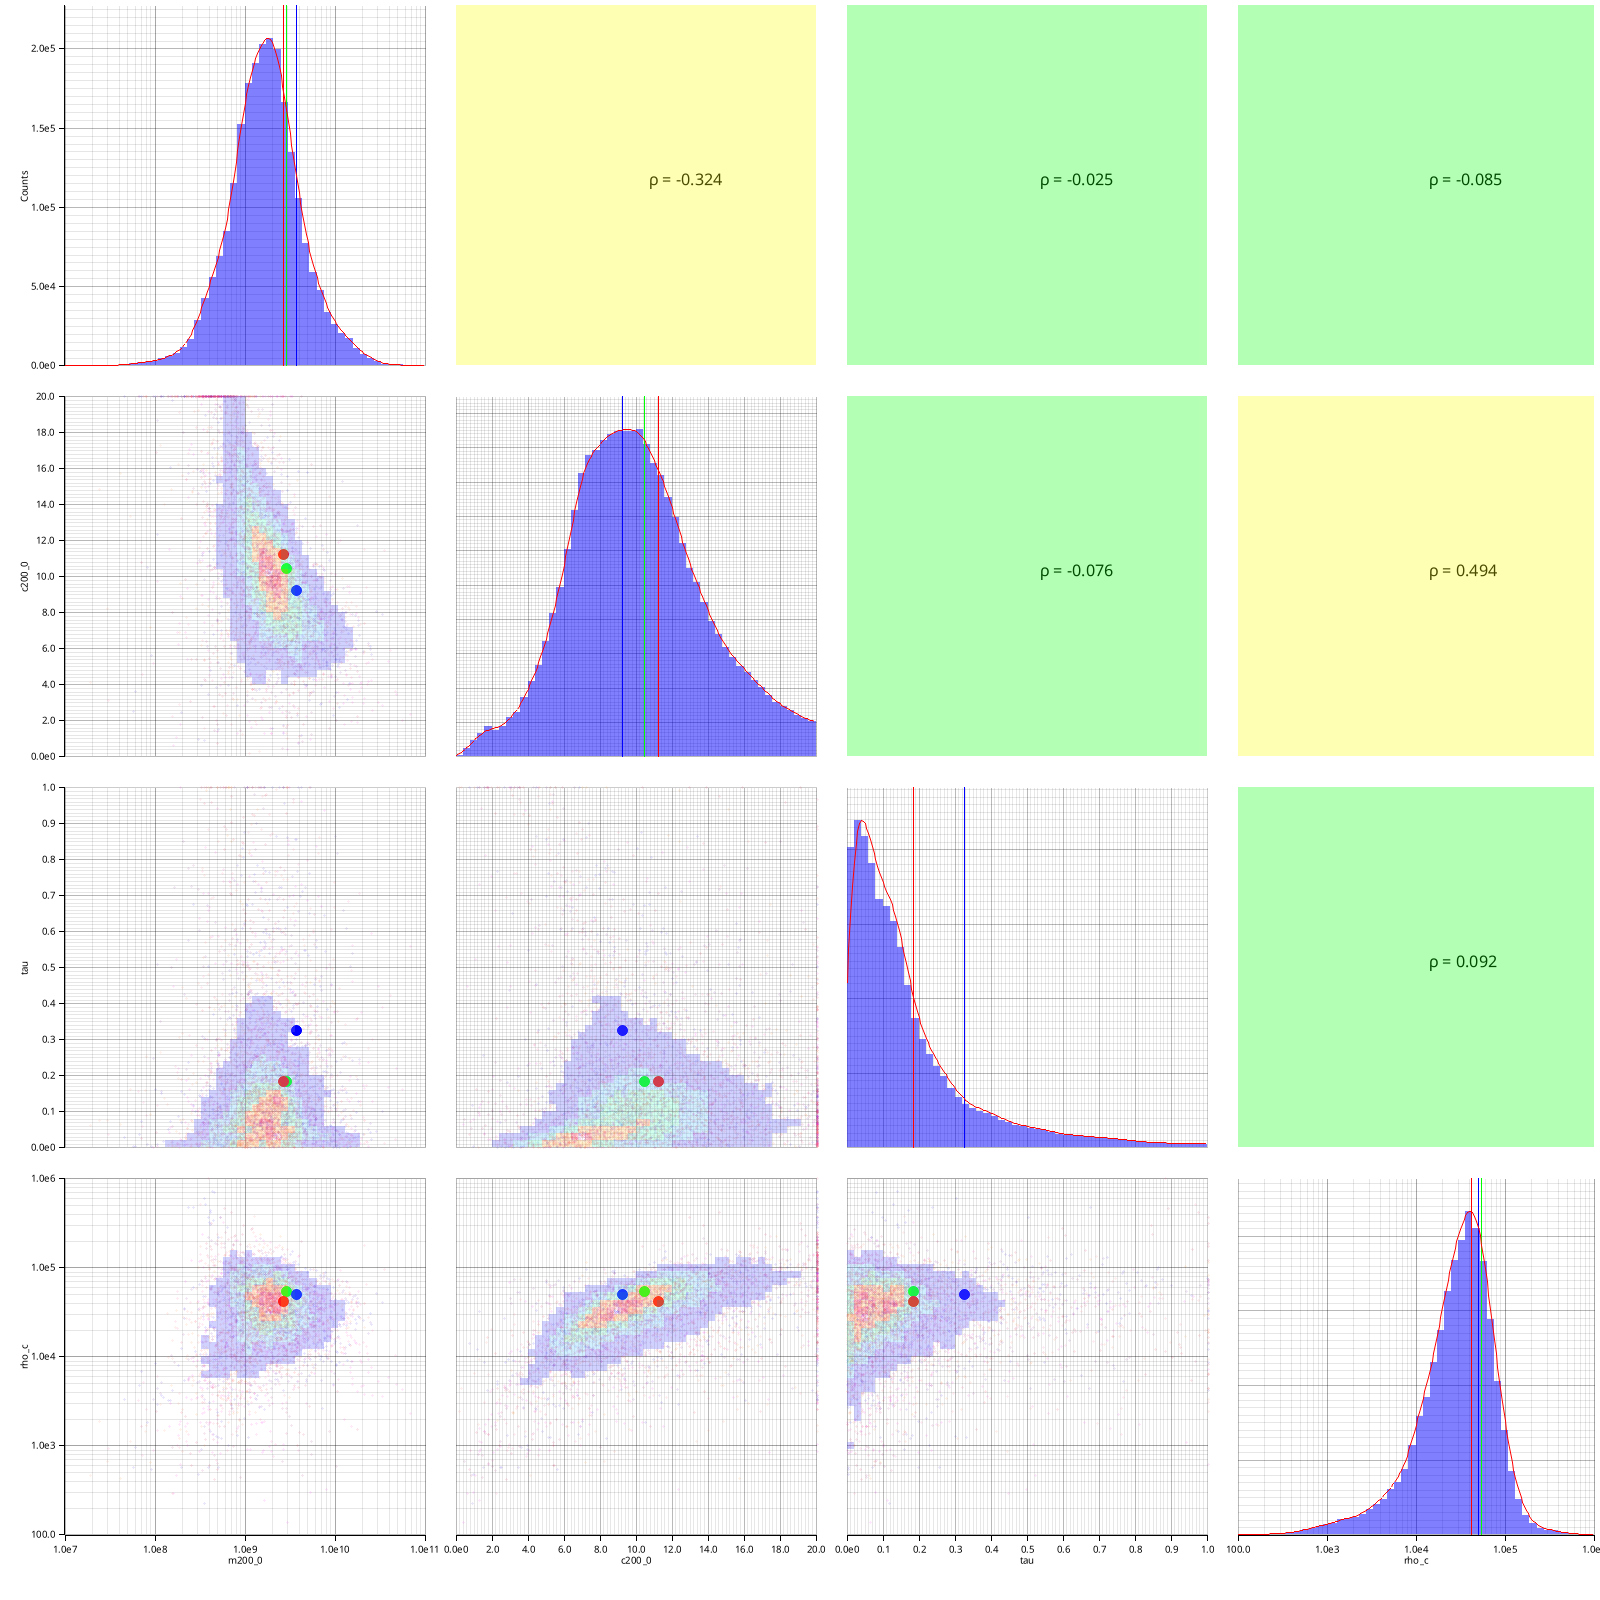
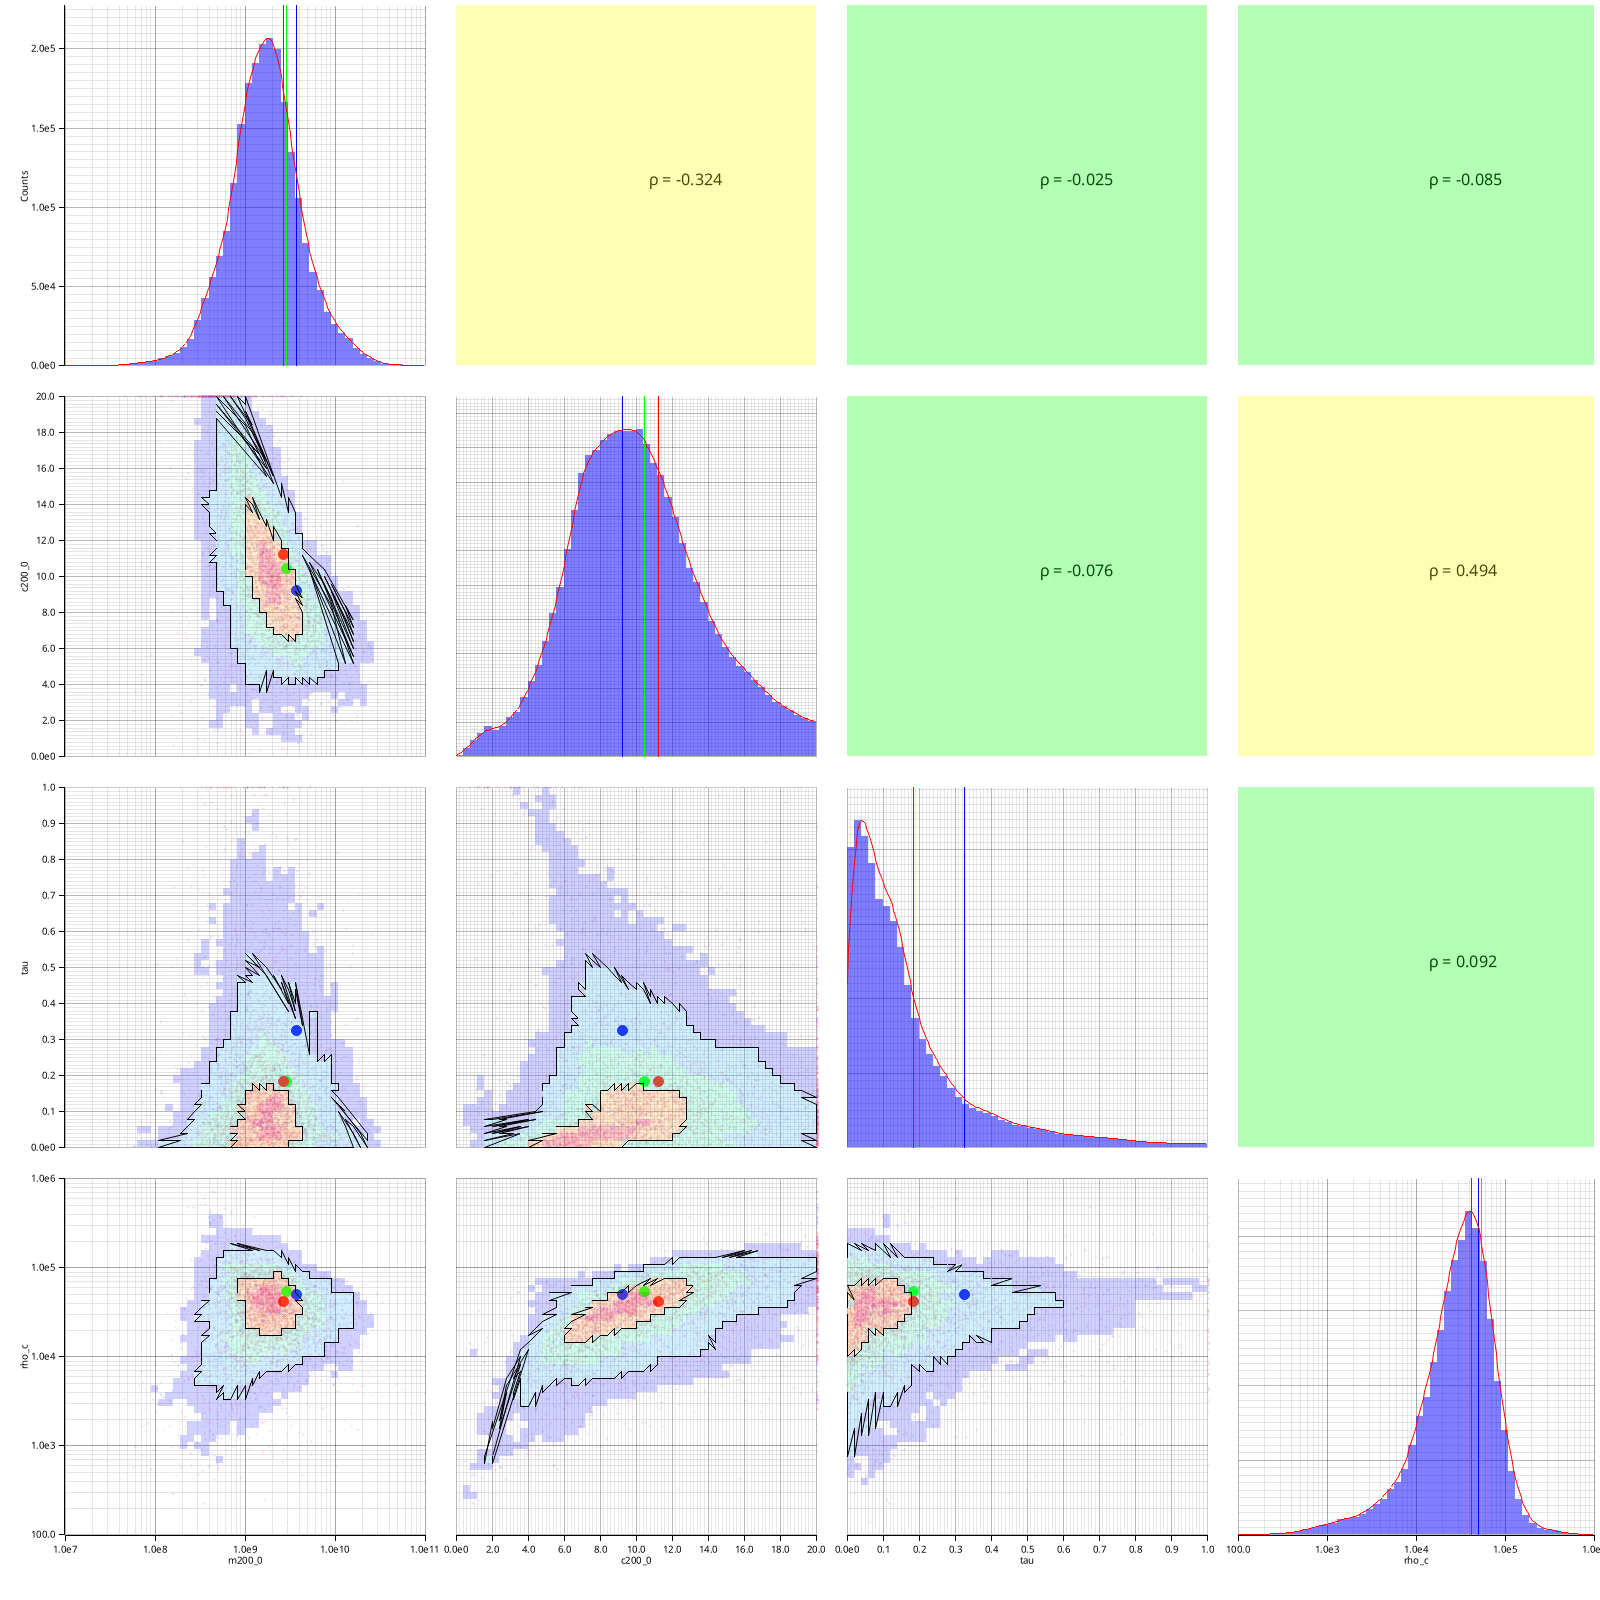
added contours

diff --git a/src/plotting.rs b/src/plotting.rs
@@ -703,6 +703,7 @@ fn plot_2d_contours(
         }
     }
 
+    let mut count = 0;
     for (&x, &y) in x_data.iter().zip(y_data.iter()) {
         if x > x_max || x < x_min || y > y_max || y < y_min {
             continue;
@@ -719,54 +720,54 @@ fn plot_2d_contours(
             false => ((y - y_min) / (y_max - y_min) * grid_size as f64).floor() as usize,
         };
 
+        count += 1;
         density[x_bin][y_bin] += 1.0;
     }
 
-    // Normalize
-    let max_density = density
-        .iter()
-        .flatten()
-        .fold(f64::NEG_INFINITY, |a, &b| a.max(b));
+    //Normalize
+    for i in 0..grid_size {
+        for j in 0..grid_size {
+            density[i][j] /= count as f64
+        }
+    }
 
     let y_margin_width = match col {
         0 => LABEL_WIDTH + Y_LABEL_PAD,
         _ => LABEL_WIDTH
     };
 
-    if max_density > 0.0 {
-        match (LOG_SCALE[col], LOG_SCALE[row]) {
-            (true, true) => {
-                let mut chart = ChartBuilder::on(area)
-                    .margin_left(y_margin_width)
-                    .margin_bottom(LABEL_WIDTH)
-                    .build_cartesian_2d((x_min..x_max).log_scale(), (y_min..y_max).log_scale())?;
+    match (LOG_SCALE[col], LOG_SCALE[row]) {
+        (true, true) => {
+            let mut chart = ChartBuilder::on(area)
+                .margin_left(y_margin_width)
+                .margin_bottom(LABEL_WIDTH)
+                .build_cartesian_2d((x_min..x_max).log_scale(), (y_min..y_max).log_scale())?;
 
-                draw_contour_content(&mut chart, &density, max_density, &edges, grid_size)?;
-            }
-            (true, false) => {
-                let mut chart = ChartBuilder::on(area)
-                    .margin_left(y_margin_width)
-                    .margin_bottom(LABEL_WIDTH)
-                    .build_cartesian_2d((x_min..x_max).log_scale(), y_min..y_max)?;
+            draw_contour_content(&mut chart, &density, &edges, grid_size)?;
+        }
+        (true, false) => {
+            let mut chart = ChartBuilder::on(area)
+                .margin_left(y_margin_width)
+                .margin_bottom(LABEL_WIDTH)
+                .build_cartesian_2d((x_min..x_max).log_scale(), y_min..y_max)?;
 
-                draw_contour_content(&mut chart, &density, max_density, &edges, grid_size)?;
-            }
-            (false, true) => {
-                let mut chart = ChartBuilder::on(area)
-                    .margin_left(y_margin_width)
-                    .margin_bottom(LABEL_WIDTH)
-                    .build_cartesian_2d(x_min..x_max, (y_min..y_max).log_scale())?;
+            draw_contour_content(&mut chart, &density, &edges, grid_size)?;
+        }
+        (false, true) => {
+            let mut chart = ChartBuilder::on(area)
+                .margin_left(y_margin_width)
+                .margin_bottom(LABEL_WIDTH)
+                .build_cartesian_2d(x_min..x_max, (y_min..y_max).log_scale())?;
 
-                draw_contour_content(&mut chart, &density, max_density, &edges, grid_size)?;
-            }
-            (false, false) => {
-                let mut chart = ChartBuilder::on(area)
-                    .margin_left(y_margin_width)
-                    .margin_bottom(LABEL_WIDTH)
-                    .build_cartesian_2d(x_min..x_max, y_min..y_max)?;
+            draw_contour_content(&mut chart, &density, &edges, grid_size)?;
+        }
+        (false, false) => {
+            let mut chart = ChartBuilder::on(area)
+                .margin_left(y_margin_width)
+                .margin_bottom(LABEL_WIDTH)
+                .build_cartesian_2d(x_min..x_max, y_min..y_max)?;
 
-                draw_contour_content(&mut chart, &density, max_density, &edges, grid_size)?;
-            }
+            draw_contour_content(&mut chart, &density, &edges, grid_size)?;
         }
     }
 
@@ -779,50 +780,127 @@ fn draw_contour_content(
         Cartesian2d<impl Ranged<ValueType = f64>, impl Ranged<ValueType = f64>>,
     >,
     density: &Vec<Vec<f64>>,
-    max_density: f64,
     edges: &Vec<Vec<(f64, f64)>>,
     grid_size: usize,
 ) -> Result<(), Box<dyn std::error::Error>> {
-    // Draw contour lines at 10%, 30%, 50%, 70%, 90%
-    let contour_levels = [0.1, 0.3, 0.5, 0.7, 0.9];
 
-    // Draw filled regions for each level
-    for level_idx in 0..contour_levels.len() {
-        let level = contour_levels[level_idx];
-        let next_level = if level_idx + 1 < contour_levels.len() {
-            contour_levels[level_idx + 1]
+    let mut cells = Vec::with_capacity(grid_size.pow(2));
+    for i in 0..grid_size {
+        for j in 0..grid_size {
+            let x_start = edges[i][j].0;
+            let x_end = edges[i + 1][j].0;
+            let y_start = edges[i][j].1;
+            let y_end = edges[i][j + 1].1;
+
+            cells.push((density[i][j], (x_start, y_start), (x_end, y_end), (i, j)));
+        }
+    }
+
+    cells.sort_by(|cell_a, cell_b| cell_b.0.partial_cmp(&cell_a.0).unwrap());
+    
+    const CONTOUR_LEVELS: [f64; 5] = [0.118, 0.393, 0.675, 0.864, 0.956]; //[0.5, 1, 1.5, 2, 2.5] sigma for 2D gaussian
+    let mut cumulative_probability = 0.0;
+    let mut levels = vec![vec![0; grid_size]; grid_size];
+    
+    for mut cell in cells {
+        cumulative_probability += cell.0;
+        
+        let color = if cumulative_probability <= CONTOUR_LEVELS[0] {
+            levels[cell.3.0][cell.3.1] = 0;
+            RGBColor(255, 100, 100) // Red
+        } else if cumulative_probability <= CONTOUR_LEVELS[1] {
+            levels[cell.3.0][cell.3.1] = 1;
+            RGBColor(255, 200, 100) // Orange
+        } else if cumulative_probability <= CONTOUR_LEVELS[2] {
+            levels[cell.3.0][cell.3.1] = 2;
+            RGBColor(100, 255, 200) // Cyan
+        } else if cumulative_probability <= CONTOUR_LEVELS[3] {
+            levels[cell.3.0][cell.3.1] = 3;
+            RGBColor(100, 200, 255) // Light Blue
+        } else if cumulative_probability <= CONTOUR_LEVELS[4] {
+            levels[cell.3.0][cell.3.1] = 4;
+            RGBColor(100, 100, 255) // Blue
         } else {
-            1.0
+            levels[cell.3.0][cell.3.1] = 5;
+            continue;
         };
+    
+        chart.draw_series(std::iter::once(Rectangle::new(
+            [cell.1, cell.2],
+            color.mix(0.3).filled(),
+        )))?;
+    }
 
-        // For each cell, if density is between current and next level, fill it
-        for i in 0..grid_size {
-            for j in 0..grid_size {
-                let normalized_density = density[i][j] / max_density;
+    // Draw contours
+    draw_contour_around_level(chart, 1, &levels, edges, grid_size)?;
+    draw_contour_around_level(chart, 3, &levels, edges, grid_size)?;
 
-                if normalized_density >= level && normalized_density < next_level {
-                    let x_start = edges[i][j].0;
-                    let x_end = edges[i + 1][j].0;
-                    let y_start = edges[i][j].1;
-                    let y_end = edges[i][j + 1].1;
+    Ok(())
+}
 
-                    // Different colors for different levels
-                    let color = match level_idx {
-                        0 => RGBColor(100, 100, 255), // Blue
-                        1 => RGBColor(100, 200, 255), // Light blue
-                        2 => RGBColor(100, 255, 200), // Cyan
-                        3 => RGBColor(255, 200, 100), // Orange
-                        _ => RGBColor(255, 100, 100), // Red
-                    };
+fn draw_contour_around_level(
+    chart: &mut ChartContext<
+        BitMapBackend,
+        Cartesian2d<impl Ranged<ValueType = f64>, impl Ranged<ValueType = f64>>,
+    >,
+    level: u32,
+    levels: &Vec<Vec<u32>>,
+    edges: &Vec<Vec<(f64, f64)>>,
+    grid_size: usize,
+) -> Result<(), Box<dyn std::error::Error>> {
+    let mut points = Vec::new();
 
-                    chart.draw_series(std::iter::once(Rectangle::new(
-                        [(x_start, y_start), (x_end, y_end)],
-                        color.mix(0.3).filled(),
-                    )))?;
+    for i in 0..grid_size {
+        for j in 0..grid_size {
+            for a in i.saturating_sub(1)..=(i+1).min(grid_size - 1) {
+                for b in j.saturating_sub(1)..=(j+1).min(grid_size - 1) {
+                    if levels[i][j] != level {
+                        continue;
+                    }
+                    
+                    // contour edge in plot
+                    if levels[a][b] > level {
+                        // edge i lies between i and i-1 so for two neighbors the greater is the idx of the edge between them
+                        points.push(edges[i.max(a)][j.max(b)]);
+                    }
+
+                    // plot edge
+                    if i == 0 {
+                        points.push(edges[0][j]);
+                        points.push(edges[0][j+1]);
+                    } else if i == grid_size - 1 {
+                        points.push(edges[grid_size][j]);
+                        points.push(edges[grid_size][j+1]);
+                    }
+
+                    if j == 0 {
+                        points.push(edges[i][0]);
+                        points.push(edges[i+1][0]);
+                    } else if j == grid_size - 1 {
+                        points.push(edges[i][grid_size]);
+                        points.push(edges[i+1][grid_size]);
+                    }
                 }
             }
         }
     }
+
+    // Calculate centroid
+    let (sum_x, sum_y) = points.iter()
+        .fold((0.0, 0.0), |(sx, sy), &(x, y)| (sx + x, sy + y));
+    let centroid = (sum_x / points.len() as f64, sum_y / points.len() as f64);
+    
+    // Sort by angle relative to centroid
+    points.sort_by(|&(x1, y1), &(x2, y2)| {
+        let angle1 = (y1 - centroid.1).atan2(x1 - centroid.0);
+        let angle2 = (y2 - centroid.1).atan2(x2 - centroid.0);
+        angle1.partial_cmp(&angle2).unwrap_or(std::cmp::Ordering::Equal)
+    });
+
+    chart.draw_series(std::iter::once(PathElement::new(
+        points,
+        &BLACK,
+    )))?;
 
     Ok(())
 }
